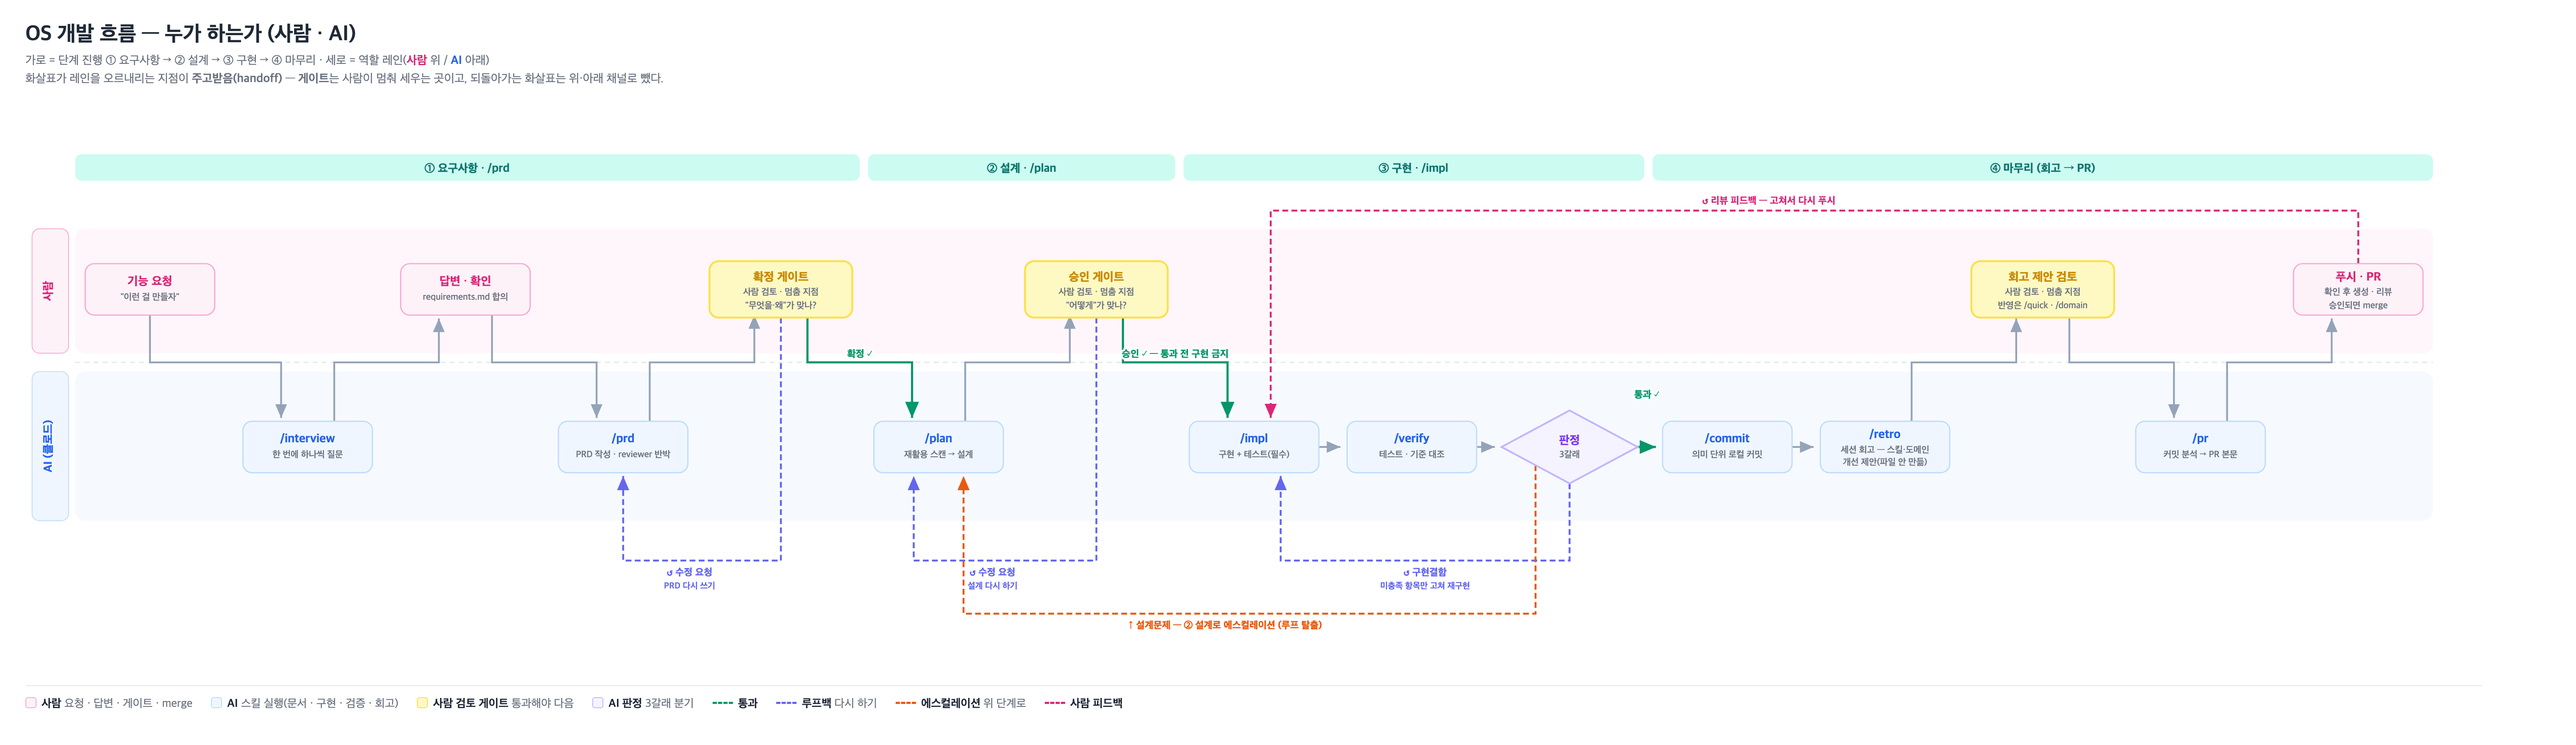
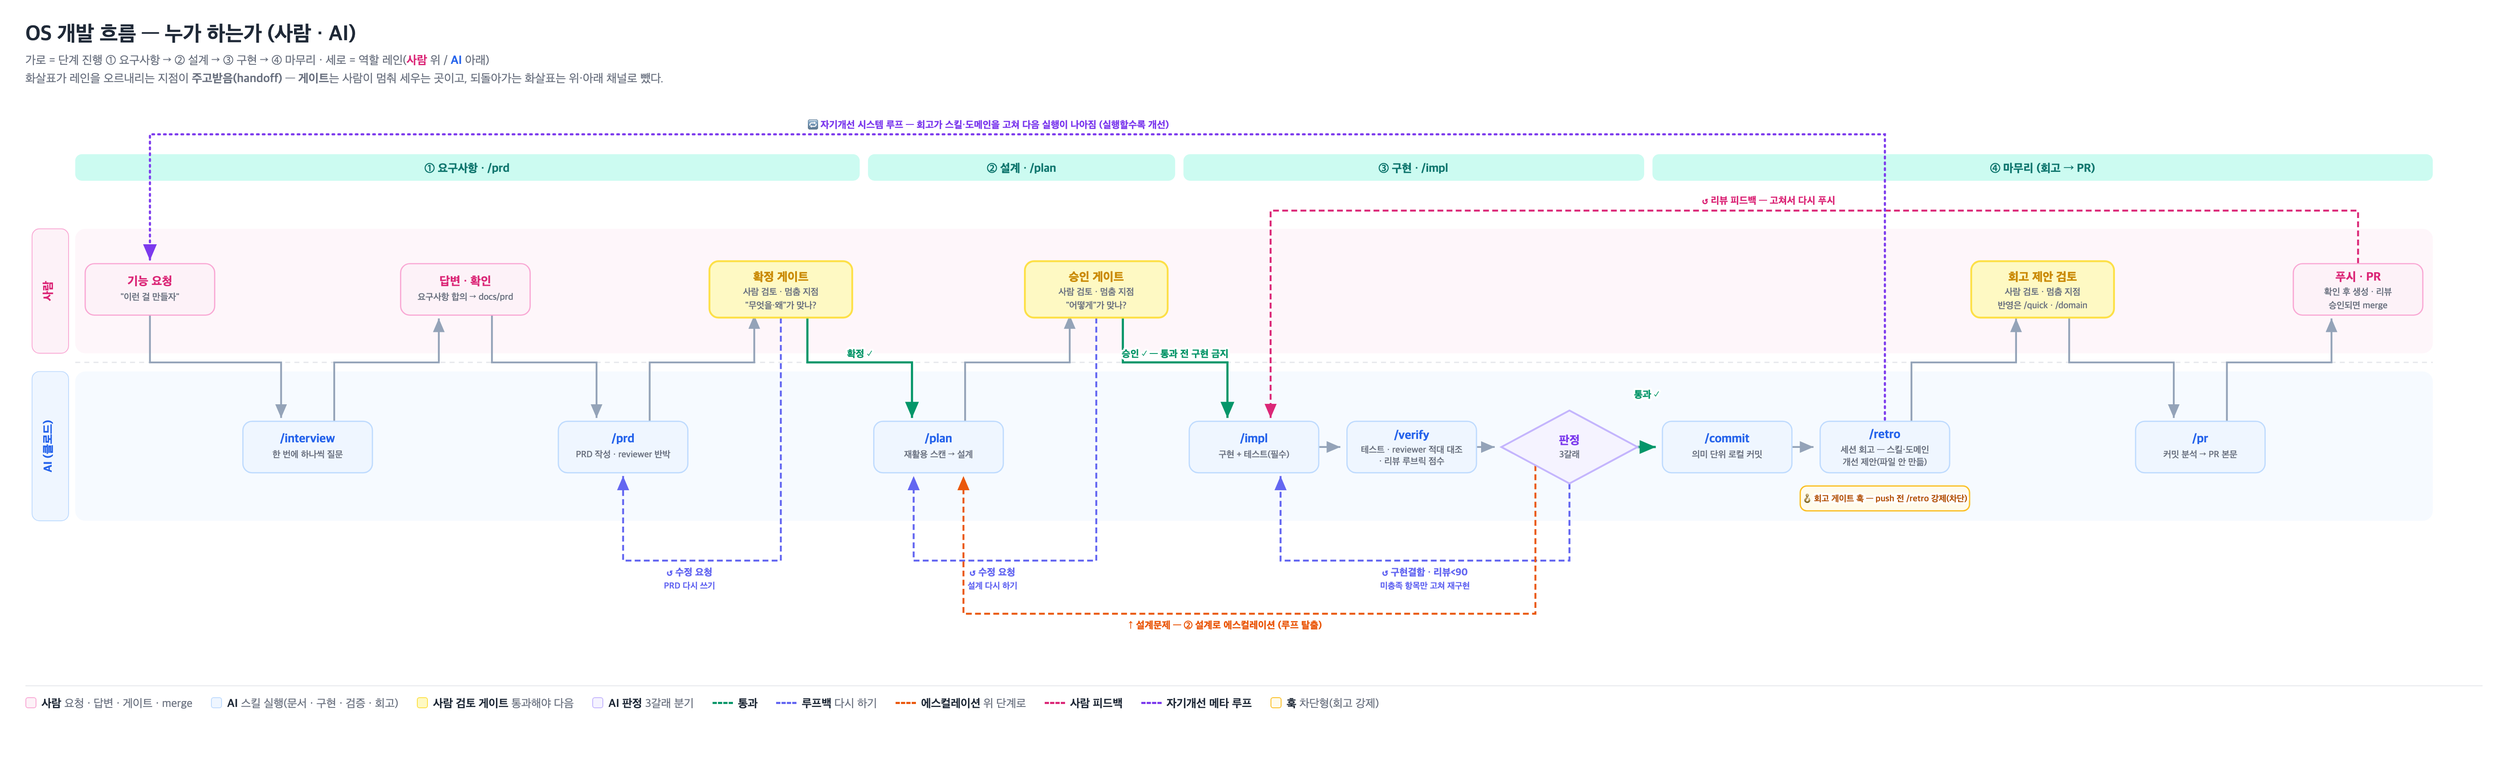
docs : os-flow-roles 최신화 — reviewer 점수 수렴·회고 게이트 훅·자기개선 메타 루프

diff --git a/docs/diagrams/os-flow-roles.html b/docs/diagrams/os-flow-roles.html
@@ -38,6 +38,8 @@
       <path d="M0,0 L7.5,3.2 L0,6.4 Z" fill="#ea580c"/></marker>
     <marker id="ah-fb" markerWidth="9" markerHeight="9" refX="7.5" refY="3.2" orient="auto">
       <path d="M0,0 L7.5,3.2 L0,6.4 Z" fill="#db2777"/></marker>
+    <marker id="ah-meta" markerWidth="9" markerHeight="9" refX="7.5" refY="3.2" orient="auto">
+      <path d="M0,0 L7.5,3.2 L0,6.4 Z" fill="#7c3aed"/></marker>
     <style>
       .nt{font-size:14.5px;font-weight:800;}
       .ns{font-size:11px;fill:#6b7280;font-weight:600;}
@@ -103,7 +105,7 @@
   <text class="als" x="800" y="582" text-anchor="middle" fill="#6366f1">PRD 다시 쓰기</text>
   <text class="al"  x="1165" y="566" text-anchor="middle" fill="#6366f1">↺ 수정 요청</text>
   <text class="als" x="1165" y="582" text-anchor="middle" fill="#6366f1">설계 다시 하기</text>
-  <text class="al"  x="1686" y="566" text-anchor="middle" fill="#6366f1">↺ 구현결함</text>
+  <text class="al"  x="1686" y="566" text-anchor="middle" fill="#6366f1">↺ 구현결함 · 리뷰&lt;90</text>
   <text class="als" x="1686" y="582" text-anchor="middle" fill="#6366f1">미충족 항목만 고쳐 재구현</text>
 
   <!-- escalation -->
@@ -118,6 +120,12 @@
   </g>
   <text class="al" x="2100" y="118" text-anchor="middle" fill="#db2777">↺ 리뷰 피드백 — 고쳐서 다시 푸시</text>
 
+  <!-- self-improvement meta loop -->
+  <g fill="none" stroke="#7c3aed" stroke-width="2.6" stroke-dasharray="2 5" stroke-linecap="round">
+    <path d="M2240,378 V34 H150 V186" marker-end="url(#ah-meta)"/>
+  </g>
+  <text class="al" x="1160" y="27" text-anchor="middle" fill="#7c3aed">🔁 자기개선 시스템 루프 — 회고가 스킬·도메인을 고쳐 다음 실행이 나아짐 (실행할수록 개선)</text>
+
   <!-- ============ NODES ============ -->
   <!-- ① -->
   <g><rect x="72" y="190" width="156" height="62" rx="11" fill="#fdf2f8" stroke="#f9a8d4" stroke-width="1.5"/>
@@ -128,7 +136,7 @@
     <text class="ns" x="340" y="424" text-anchor="middle">한 번에 하나씩 질문</text></g>
   <g><rect x="452" y="190" width="156" height="62" rx="11" fill="#fdf2f8" stroke="#f9a8d4" stroke-width="1.5"/>
     <text class="nt" x="530" y="216" text-anchor="middle" fill="#db2777">답변 · 확인</text>
-    <text class="ns" x="530" y="234" text-anchor="middle">requirements.md 합의</text></g>
+    <text class="ns" x="530" y="234" text-anchor="middle">요구사항 합의 → docs/prd</text></g>
   <g><rect x="642" y="380" width="156" height="62" rx="11" fill="#eff6ff" stroke="#bfdbfe" stroke-width="1.5"/>
     <text class="nt" x="720" y="406" text-anchor="middle" fill="#2563eb">/prd</text>
     <text class="ns" x="720" y="424" text-anchor="middle">PRD 작성 · reviewer 반박</text></g>
@@ -151,8 +159,9 @@
     <text class="nt" x="1480" y="406" text-anchor="middle" fill="#2563eb">/impl</text>
     <text class="ns" x="1480" y="424" text-anchor="middle">구현 + 테스트(필수)</text></g>
   <g><rect x="1592" y="380" width="156" height="62" rx="11" fill="#eff6ff" stroke="#bfdbfe" stroke-width="1.5"/>
-    <text class="nt" x="1670" y="406" text-anchor="middle" fill="#2563eb">/verify</text>
-    <text class="ns" x="1670" y="424" text-anchor="middle">테스트 · 기준 대조</text></g>
+    <text class="nt" x="1670" y="402" text-anchor="middle" fill="#2563eb">/verify</text>
+    <text class="ns" x="1670" y="418" text-anchor="middle">테스트 · reviewer 적대 대조</text>
+    <text class="ns" x="1670" y="432" text-anchor="middle">· 리뷰 루브릭 점수</text></g>
   <g><path d="M1860,367 L1942,411 L1860,455 L1778,411 Z" fill="#f5f3ff" stroke="#c4b5fd" stroke-width="2.2"/>
     <text class="nt" x="1860" y="408" text-anchor="middle" fill="#7c3aed">판정</text>
     <text class="ns" x="1860" y="424" text-anchor="middle">3갈래</text></g>
@@ -165,6 +174,8 @@
     <text class="nt" x="2240" y="401" text-anchor="middle" fill="#2563eb">/retro</text>
     <text class="ns" x="2240" y="418" text-anchor="middle">세션 회고 — 스킬·도메인</text>
     <text class="ns" x="2240" y="433" text-anchor="middle">개선 제안(파일 안 만듦)</text></g>
+  <g><rect x="2138" y="458" width="204" height="30" rx="8" fill="#fffbeb" stroke="#fbbf24" stroke-width="1.6"/>
+    <text class="als" x="2240" y="477" text-anchor="middle" fill="#b45309">🪝 회고 게이트 훅 — push 전 /retro 강제(차단)</text></g>
   <g><rect x="2344" y="187" width="172" height="68" rx="11" fill="#fef9c3" stroke="#fde047" stroke-width="2.2"/>
     <text class="nt" x="2430" y="211" text-anchor="middle" fill="#ca8a04">회고 제안 검토</text>
     <text class="ns" x="2430" y="228" text-anchor="middle" fill="#a16207">사람 검토 · 멈춤 지점</text>
@@ -187,6 +198,8 @@
   <span><i class="ln" style="border-color:#6366f1"></i><b>루프백</b> 다시 하기</span>
   <span><i class="ln" style="border-color:#ea580c"></i><b>에스컬레이션</b> 위 단계로</span>
   <span><i class="ln" style="border-color:#db2777"></i><b>사람 피드백</b></span>
+  <span><i class="ln" style="border-color:#7c3aed"></i><b>자기개선 메타 루프</b></span>
+  <span><i class="sw" style="background:#fffbeb;border-color:#fbbf24"></i><b>훅</b> 차단형(회고 강제)</span>
 </div>
 </body>
 </html>
